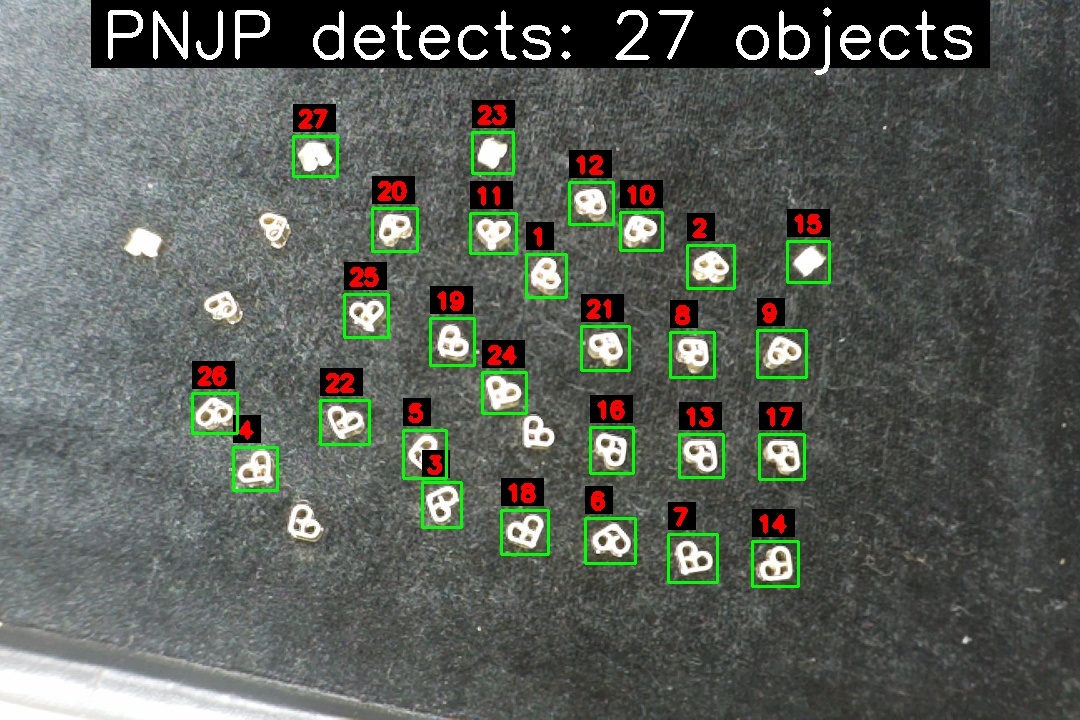
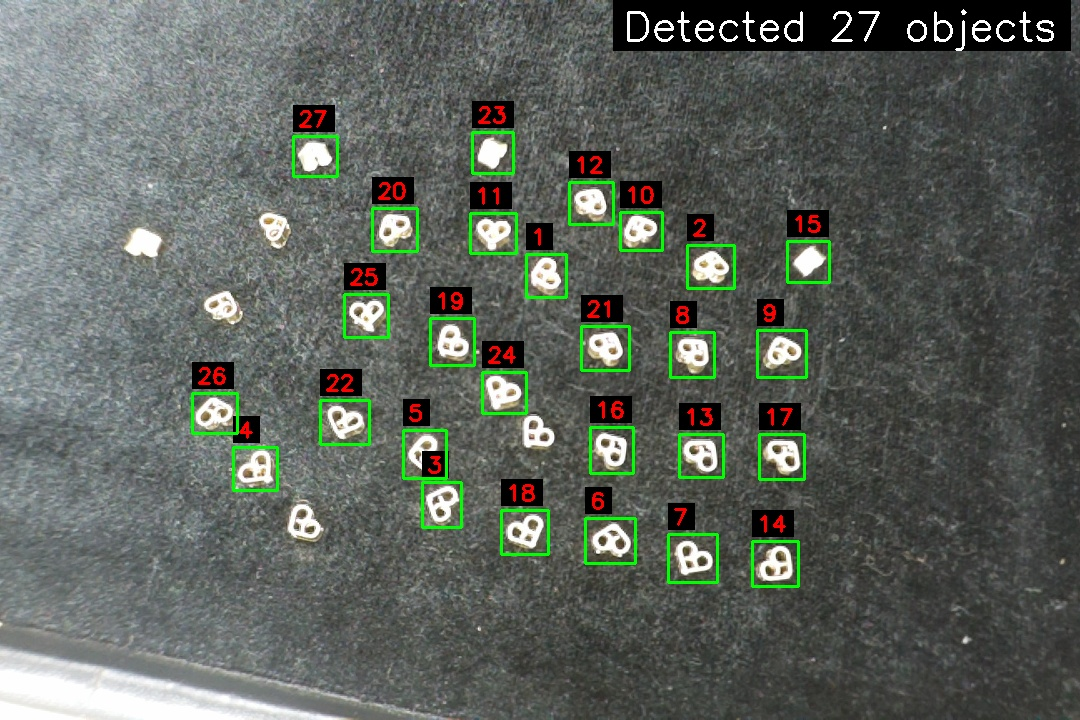
Update

diff --git a/ObjectDetection/ObjectDectecionWithOpenCV/opencv.py b/ObjectDetection/ObjectDectecionWithOpenCV/opencv.py
@@ -171,7 +171,7 @@ class TehseenCode(QDialog):
         height, width, _ = img.shape
         font = cv2.FONT_HERSHEY_SIMPLEX
         font_scale = width / 1500
-        font_thickness = 3
+        font_thickness = 2
         text_color = (0, 0, 255)
         bg_color = (0, 0, 0)
 
@@ -190,10 +190,11 @@ class TehseenCode(QDialog):
 
         # Add a title showing the total number of detected objects
         num_boxes = results[0].boxes.shape[0] if len(results[0].boxes.shape) > 0 else 0
-        font_scale = width / 500
+        font_scale = width / 800
+        font_thickness_title = 4
         title = f"Detected {num_boxes} objects"
-        text_size = cv2.getTextSize(title, font, font_scale, font_thickness)[0]
-        text_x = (width - text_size[0]) // 2
+        text_size = cv2.getTextSize(title, font, font_scale, font_thickness_title)[0]
+        text_x = (width - text_size[0]) - 20
         text_y = text_size[1] + 10
         text_color = (255, 255, 255)
         bg_color = (0, 0, 0)
